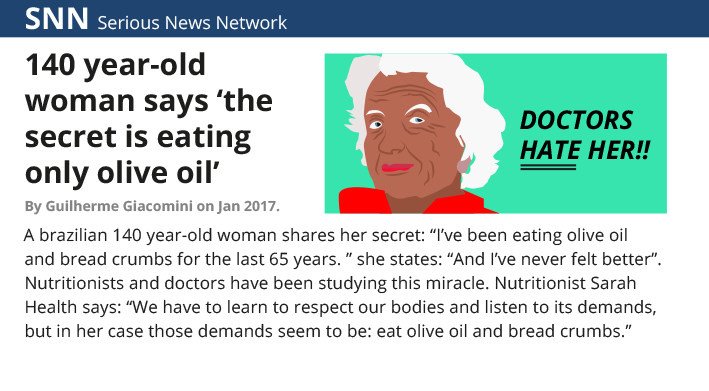
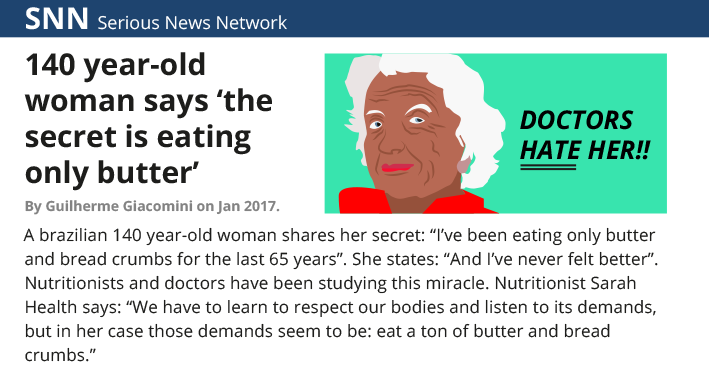
fixing old woman article

diff --git a/Assets/Scripts/UIController.cs b/Assets/Scripts/UIController.cs
@@ -14,7 +14,7 @@ public class UIController : MonoBehaviour
 		"Olsen Twins not real twins (not even sisters)",
 		"Switzerland is not real",
 		"Gayvolution confirmed! 'We knew this was going to happen!'",
-		"140 year-old woman says 'the secret is esating only olive oil'",
+		"140 year-old woman says 'the secret is eating only butter'",
 		"Yoga found out to be a form of satanic worship in disguise",
 		"Kim Kardashian is actually Taylor Swift's BFF",
 		"Kim Kardashian pregnant and calling her new son 'Wild West'",
